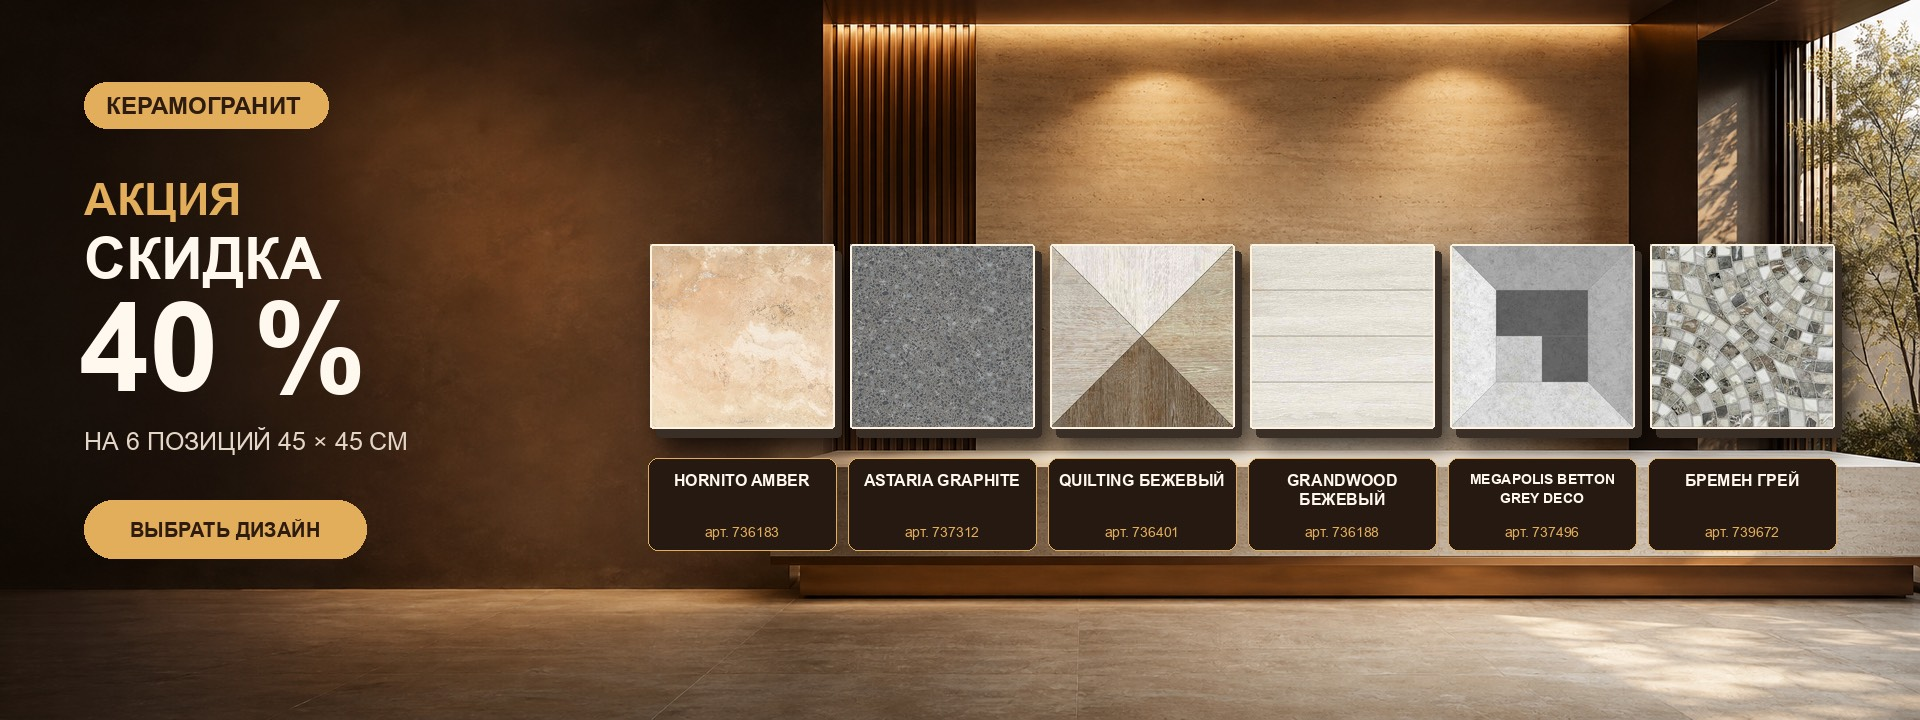
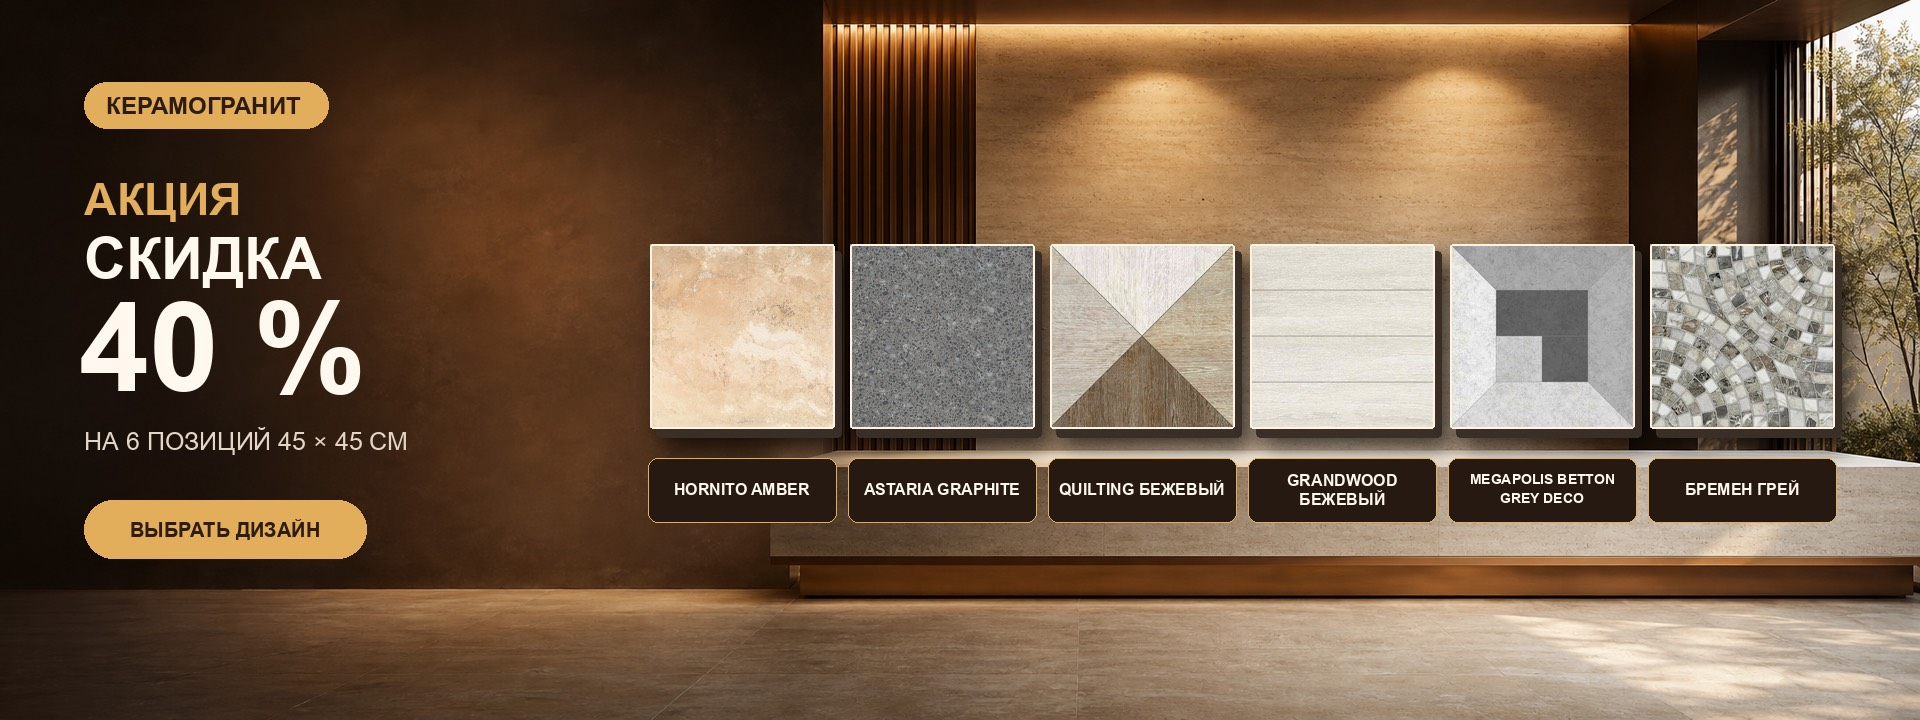
Обновить баннер акции и сделать его кликабельным (звонок в магазин)

Changed region(s): [[0.3125, 0.6417, 0.9688, 0.7639]]

diff --git a/index.html b/index.html
@@ -150,12 +150,13 @@
 
   <section class="promo" id="promo">
     <div class="container">
-      <picture>
-        <source srcset="assets/promo-ceramogranit-40.webp" type="image/webp">
-        <img class="promo__banner reveal" src="assets/promo-ceramogranit-40.jpg" alt="Акция: скидка 40% на керамогранит 45×45 см — HORNITO AMBER, ASTARIA GRAPHITE, QUILTING, GRANDWOOD, MEGAPOLIS BETTON GREY DECO, Бремен Грей" width="1920" height="720" loading="lazy">
-      </picture>
+      <a href="tel:+79930334434" class="promo__link reveal" aria-label="Позвонить в магазин по акции на керамогранит: +7 (993) 033-44-34">
+        <picture>
+          <source srcset="assets/promo-ceramogranit-40.webp" type="image/webp">
+          <img class="promo__banner" src="assets/promo-ceramogranit-40.jpg" alt="Акция: скидка 40% на керамогранит 45×45 см — HORNITO AMBER, ASTARIA GRAPHITE, QUILTING, GRANDWOOD, MEGAPOLIS BETTON GREY DECO, Бремен Грей. Нажмите, чтобы позвонить." width="1920" height="720" loading="lazy">
+        </picture>
+      </a>
       <div class="promo__actions reveal">
-        <a href="tel:+79930334434" class="btn btn--accent btn--lg">Позвонить: +7 (993) 033-44-34</a>
         <a href="#contacts" class="btn btn--outline btn--lg">Приехать в магазин</a>
       </div>
     </div>

diff --git a/styles.css b/styles.css
@@ -419,6 +419,13 @@ section { padding: 80px 0; }
   padding: 36px 0;
 }
 
+.promo__link {
+  display: block;
+  border-radius: var(--radius-lg);
+  transition: transform 0.4s var(--ease-spring), box-shadow 0.4s var(--ease-smooth);
+}
+.promo__link:hover, .promo__link:focus-visible { transform: translateY(-4px) scale(1.01); }
+
 .promo__banner {
   display: block;
   width: 100%;
